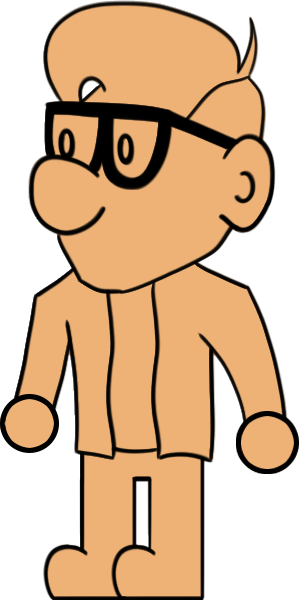
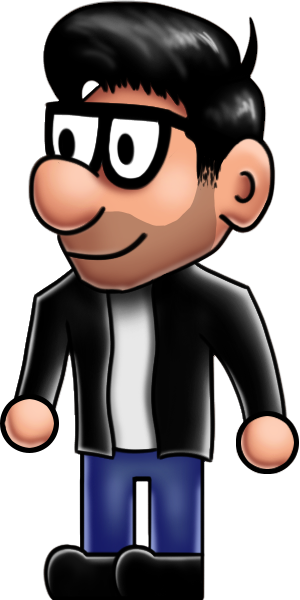
Added final character design

diff --git a/web/src/public/css/layout.css b/web/src/public/css/layout.css
@@ -51,7 +51,6 @@
   --btn-scroll-size: 3rem;
   --hover-font-size: calc(1.25rem + 2vw);
   --text-card-font-size: calc(0.75rem + 1vw);
-  --resume-header-size: calc(2.25rem + 1vw);
   --pop-size: 5px;
   --hero-height: 75px;
   --loading-gap: 5px;
@@ -64,9 +63,11 @@
   --scroll-text-hue: 0;
 
   
+  --resume-header-size: calc(2.25rem + 1vw);
+  --resume-content-size: calc(1.5rem + 1.5vw);
   --resume-ground-height: 80px;
   --resume-jump-height: 170px;
-  --resume-character-height: 170px;
+  --resume-character-height: 200px;
   --resume-block-height: calc(var(--resume-character-height) + var(--resume-ground-height) + var(--resume-jump-height));
   --resume-jump-one: calc(var(--resume-jump-height)*.8 + var(--resume-ground-height));
   --resume-jump-two: calc(var(--resume-jump-height)*.9 + var(--resume-ground-height));
@@ -1779,48 +1780,6 @@ label {
   flex-direction: column;
   gap: var(--loading-gap);
 }
-/* 
-.loading-row {
-  --base-delay: 50ms;
-  --actual-delay: calc(var(--base-delay)*1);
-  height: 4%;
-  background-color: transparent;
-  display: flex;
-  gap: var(--loading-gap);
-  opacity: 0;
-  transition: all 2.5s ease-in-out var(--actual-delay);
-  transform: translateX(100vw);
-}
-
-.loading-row:nth-child(2n) {
-  transform: translateX(-100vw);
-}
-
-.loading-row-wrapper.displayed .loading-row {
-  gap: var(--loading-gap);
-  transform: translateX(0);
-  opacity: 1;
-}
-
-.loading-row:nth-child(2) { --actual-delay:  calc(var(--base-delay)*2) }
-.loading-row:nth-child(3) { --actual-delay:  calc(var(--base-delay)*3) }
-.loading-row:nth-child(4) { --actual-delay:  calc(var(--base-delay)*4) }
-.loading-row:nth-child(5) { --actual-delay:  calc(var(--base-delay)*5) }
-.loading-row:nth-child(6) { --actual-delay:  calc(var(--base-delay)*6) }
-.loading-row:nth-child(7) { --actual-delay:  calc(var(--base-delay)*7) }
-.loading-row:nth-child(8) { --actual-delay:  calc(var(--base-delay)*8) }
-.loading-row:nth-child(9) { --actual-delay:  calc(var(--base-delay)*9) }
-.loading-row:nth-child(10) { --actual-delay:  calc(var(--base-delay)*10) }
-.loading-row:nth-child(11) { --actual-delay:  calc(var(--base-delay)*11) }
-.loading-row:nth-child(12) { --actual-delay:  calc(var(--base-delay)*12) }
-.loading-row:nth-child(13) { --actual-delay:  calc(var(--base-delay)*13) }
-.loading-row:nth-child(14) { --actual-delay:  calc(var(--base-delay)*14) }
-.loading-row:nth-child(15) { --actual-delay:  calc(var(--base-delay)*15) }
-.loading-row:nth-child(16) { --actual-delay:  calc(var(--base-delay)*16) }
-.loading-row:nth-child(17) { --actual-delay:  calc(var(--base-delay)*17) }
-.loading-row:nth-child(18) { --actual-delay:  calc(var(--base-delay)*18) }
-.loading-row:nth-child(19) { --actual-delay:  calc(var(--base-delay)*19) }
-.loading-row:nth-child(20) { --actual-delay:  calc(var(--base-delay)*20) } */
 
 .loading-row {
   --base-delay: 50ms;
@@ -2082,12 +2041,12 @@ label {
 }
 
 .character.right.jump {
-  background-image: url("../images/resume/character-jump-right.png");
+  background-image: url("../images/resume/character-right-jumping.png");
   animation: character-jump 750ms forwards linear;
 }
 
 .character.left.jump {
-  background-image: url("../images/resume/character-jump-left.png");
+  background-image: url("../images/resume/character-left-jumping.png");
   animation: character-jump 750ms forwards linear;
 }
 
@@ -2101,7 +2060,7 @@ label {
 
 @keyframes character-walk-right {
   0%, 49.9%, 100% {
-    background-image: url("../images/resume/character-right-walking.png");
+    background-image: url("../images/resume/character-right-walk.png");
   }
   50%, 99.9% {
     background-image: url("../images/resume/character-right.png");
@@ -2110,7 +2069,7 @@ label {
 
 @keyframes character-walk-left {
   0%, 49.9%, 100% {
-    background-image: url("../images/resume/character-left-walking.png");
+    background-image: url("../images/resume/character-left-walk.png");
   }
   50%, 99.9% {
     background-image: url("../images/resume/character-left.png");
@@ -2185,6 +2144,73 @@ label {
   }
 }
 
+.sign-wrapper {
+  position: absolute;
+  display: flex;
+  justify-content: center;
+  align-items: center;
+  width: 100%;
+  height: 75%;
+  z-index: 10;
+  bottom: calc(var(--resume-block-height)/2);
+  height: auto;
+}
+
+.sign {
+  position: relative;
+  height: auto;
+  width: 250px;
+  background-color: rgb(114, 74, 56);
+  box-shadow:  inset -5px -5px 5px rgb(42, 26, 18), inset 5px 5px 5px rgb(209, 170, 129);
+  justify-content: center;
+  text-align: center;
+  align-items: center;
+  display: flex;
+  padding: 5px 25px;
+}
+
+@media (max-width: 400px) {
+  .sign {
+    padding: 5px;
+    width: 180px;
+  }
+}
+
+
+
+.sign::before {
+  position: absolute;
+  content: "";
+  top: 100%;
+  height: calc(var(--resume-block-height)/2);
+  width: 10px;
+  background-color: rgb(114, 74, 56);
+  box-shadow:  inset -3px 3px 3px rgb(42, 26, 18), inset 3px 3px 3px rgb(209, 170, 129);
+  z-index: -1;
+}
+
+.resume-sign-instructions {
+  color: var(--light-color);
+  text-shadow: 0 0 5px black, 0 0 5px black, 0 0 5px black;
+}
+
+.resume-sign-instructions.large {
+  font-size: 2rem;
+}
+
+.resume-sign-instructions.small {
+  font-size: 0;
+}
+
+@media (max-width: 400px) {
+  .resume-sign-instructions.large {
+    font-size: 0;
+  }
+  .resume-sign-instructions.small {
+    font-size: 1.25rem;
+  }
+}
+
 .cloud {
   position: absolute;
   transform: translateX(50%) translateY(-200%) translateZ(-1px) scale(2);
@@ -2201,14 +2227,6 @@ label {
   width: 120px;
   background-image: url("../images/resume/cloud-far.png");
   transform: translateX(50%) translateY(-100%) translateZ(-1px) scale(2);
-}
-
-.ground.spacer {
-  background-color: magenta;
-}
-
-.ground.grass {
-  background-color: green;
 }
 
 .resume-two { left: 100vw;}
@@ -2247,8 +2265,8 @@ label {
 .resume-header-word {
   background-color: goldenrod;
   color: rgb(59, 44, 0);
-  text-shadow: 2px -2px 2px rgb(110, 80, 3), 1px -1px 1px rgb(110, 80, 3), -2px 2px 2px rgb(242, 215, 148), -1px 1px 1px rgb(242, 215, 148);
-  box-shadow: inset 5px -5px 5px rgb(110, 80, 3), inset -5px 5px 5px rgb(242, 215, 148);
+  text-shadow: -2px -2px 2px rgb(110, 80, 3), -1px -1px 1px rgb(110, 80, 3), 2px 2px 2px rgb(242, 215, 148), 1px 1px 1px rgb(242, 215, 148);
+  box-shadow: inset -5px -5px 5px rgb(110, 80, 3), inset 5px 5px 5px rgb(242, 215, 148);
   justify-content: center;
   text-align: center;
   align-items: center;
@@ -2256,7 +2274,7 @@ label {
   border-radius: var(--border-radius);
   border: 1px solid rgb(59, 44, 0);
   border-bottom: 3px solid rgb(59, 44, 0);
-  border-left: 3px solid rgb(59, 44, 0);
+  border-right: 3px solid rgb(59, 44, 0);
   width: 300px;
   height: 100px;
 }
@@ -2270,7 +2288,7 @@ label {
   :root {
     --resume-ground-height: 60px;
     --resume-jump-height: 150px;
-    --resume-character-height: 150px;
+    --resume-character-height: 170px;
     --resume-block-height: calc(var(--resume-character-height) + var(--resume-ground-height) + var(--resume-jump-height));
     --resume-jump-one: calc(var(--resume-jump-height)*.8 + var(--resume-ground-height));
     --resume-jump-two: calc(var(--resume-jump-height)*.9 + var(--resume-ground-height));
@@ -2318,40 +2336,40 @@ label {
 }
 
 .resume-content-wrapper {
+  --bolt-gap: 10px;
   position: relative;
   width: 60%;
   max-width: 1000px;
-  aspect-ratio: 2;
   display: grid;
   grid-template-columns: 1fr 1fr;
   place-items: center;
   border-radius: calc(var(--border-radius)*2);
   border: 1px solid black;
   border-bottom: 3px solid black;
-  border-left: 3px solid black;
-  padding: 5px;
+  border-right: 3px solid black;
+  padding: calc(var(--bolt-gap)*3);
+  gap: calc(var(--bolt-gap)*2);
 }
 
 .resume-content-wrapper.pink {
   background-color: rgb(208, 123, 123);
-  box-shadow: inset 5px -5px 5px rgb(112, 43, 59), inset -5px 5px 5px rgb(255, 197, 197);
+  box-shadow: inset -5px -5px 5px rgb(112, 43, 59), inset 5px 5px 5px rgb(255, 197, 197);
 }
 
 .resume-content-wrapper.green {
   background-color: rgb(103, 149, 79);
-  box-shadow: inset 5px -5px 5px rgb(19, 71, 62), inset -5px 5px 5px rgb(229, 234, 137);
+  box-shadow: inset -5px -5px 5px rgb(19, 71, 62), inset 5px 5px 5px rgb(229, 234, 137);
 }
 
 .resume-content-wrapper::before, 
 .resume-content-wrapper::after {
-  --bolt-gap: 10px;
   content: "";
   position: absolute;
   border-radius: 50%;
   aspect-ratio: 1;
   width: 20px;
   background-color: grey;
-  box-shadow: inset 2px -2px 2px rgb(51, 51, 51), inset -5px 5px 5px rgb(203, 203, 203);
+  box-shadow: inset -2px -2px 2px rgb(51, 51, 51), inset 2px 2px 2px rgb(203, 203, 203);
   border: 1px solid black;
   top: var(--bolt-gap);
 }
@@ -2371,10 +2389,9 @@ label {
 }
 
 .resume-content-image {
-  width: 90%;
-  height: 80%;
-  border-radius: var(--rounded-radius);
-  border: 1px solid black;
+  width: 100%;
+  border-radius: var(--border-radius);
+  box-shadow: 5px 5px 5px var(--dark-transparent);
   background: no-repeat center center;
   -webkit-background-size: cover;
   -moz-background-size: cover;
@@ -2384,9 +2401,10 @@ label {
 }
 
 .resume-content-text {
-  width: 80%;
-  height: 70%;
-  color: black;
+  width: 100%;
+  border-radius: var(--border-radius);
+  box-shadow: 5px 5px 5px var(--dark-transparent);
+  background-color: var(--white-half-transparent);
 }
 
 .rock {
@@ -2397,4 +2415,34 @@ label {
   width: 20px;
   height: 20px;
   background-color: grey;
+}
+
+.resume-education-grid > h1 {
+  font-size: var(--resume-content-size);
+  color: var(--dark-less-transparent);
+  margin: 0;
+  padding: 0;
+  margin-top: 10px;
+}
+
+.resume-education-grid > h2 {
+  font-size: calc(var(--resume-content-size) /2);
+  color: var(--dark-less-transparent);
+  margin: 0;
+  padding: 0;
+  margin-top: 5px;
+  margin-bottom: 15px;
+}
+.resume-education-grid > h3 {
+  font-size: calc(var(--resume-content-size) /3);
+  color: var(--dark-less-transparent);
+  margin: 0;
+  padding: 0;
+}
+.resume-education-grid > h4 {
+  font-size: calc(var(--resume-content-size) /4);
+  color: var(--dark-less-transparent);
+  margin: 0;
+  padding: 0;
+  margin-bottom: 20px;
 }

diff --git a/web/src/pages/visual-resume.html b/web/src/pages/visual-resume.html
@@ -42,6 +42,12 @@
                 <p class="resume-ground-instructions large">Scroll Up to Move</p>
                 <p class="resume-ground-instructions small">Swipe Right to Move</p>
             </div>
+            <div class="sign-wrapper resume-two">
+                <div class="sign">
+                    <p class="resume-sign-instructions large">Press Space to Jump!</p>
+                    <p class="resume-sign-instructions small">Tap the Character to Jump!</p>
+                </div>
+            </div>
             <div class="ground spacer resume-two"></div>
             <div class="ground grass resume-three"></div>
             <div class="resume-header resume-three">
@@ -51,11 +57,11 @@
                 <div class="resume-content-wrapper pink">
                     <img src="../images/resume/ucsd.jpg" alt="" class="resume-content-image">
                     <div class="resume-content-text resume-education-grid">
-                        <p>UCSD</p>
-                        <!-- <p>University of California, San Diego</p>
-                        <p>Bachelor's of Science </p>
-                        <p>in Computer Engineering</p>
-                        <p>June 2022</p> -->
+                        <h1>UCSD</h1>
+                        <h4>University of California, San Diego</h4>
+                        <h3>Bachelor's of Science in</h3>
+                        <h2>Computer Engineering</h2>
+                        <h4>- - - June 2022 - - -</h4>
                     </div>
                 </div>
             </div>

diff --git a/web/src/public/js/main.js b/web/src/public/js/main.js
@@ -398,7 +398,7 @@ function parallaxScroll(event) {
     scrollTimer = window.setTimeout(function() {
         character.classList.remove("walk");
         console.log("done scrolling")
-    }, 500);
+    }, 300);
 }
 
 function userKeyResume(event) {
